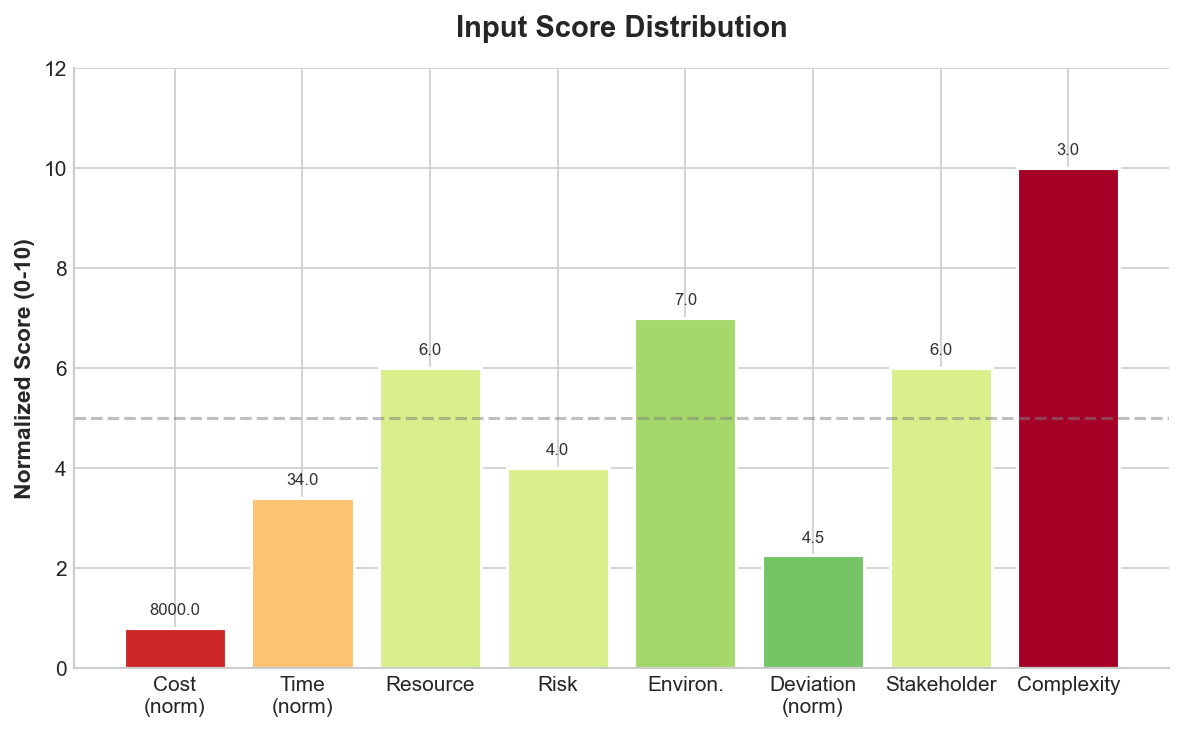
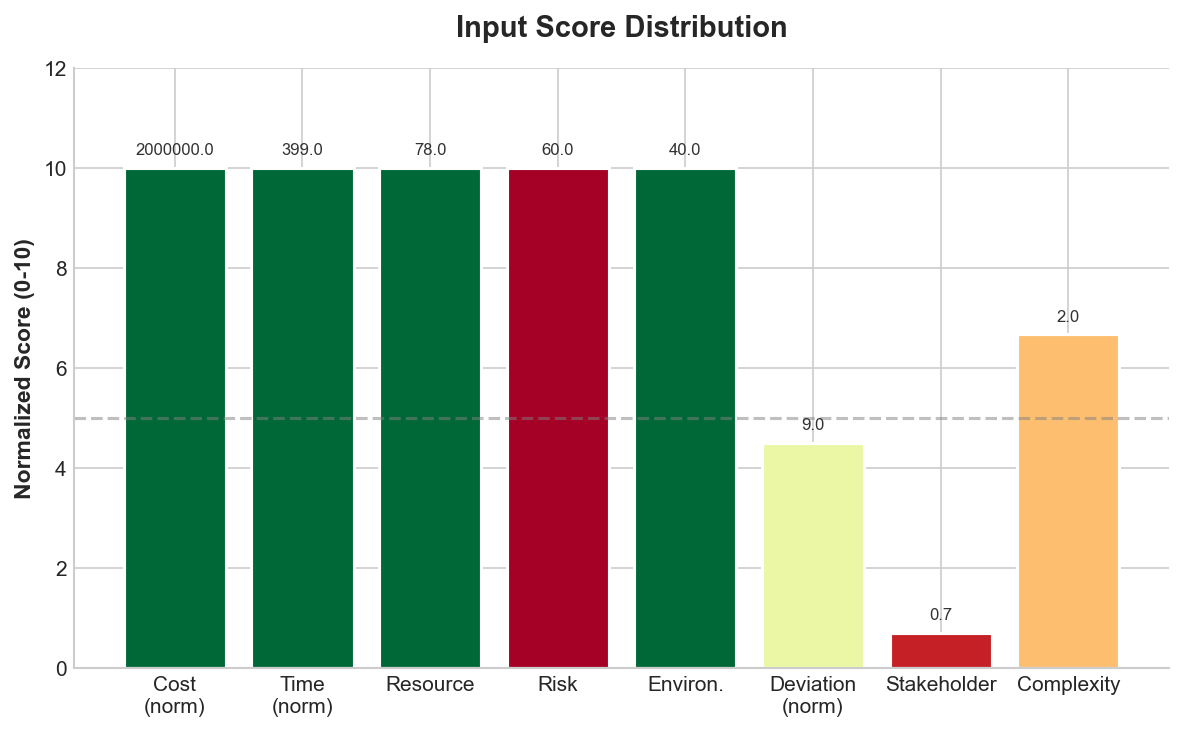
final product

diff --git a/templates/index.html b/templates/index.html
@@ -44,7 +44,6 @@
             font-size: 1.1rem;
         }
 
-        /* Navigation Tabs */
         .nav-tabs {
             display: flex;
             justify-content: center;
@@ -228,7 +227,6 @@
             box-shadow: 0 10px 30px rgba(17, 153, 142, 0.4);
         }
 
-        /* Feasibility Results */
         .results-section {}
 
         .result-card {
@@ -373,7 +371,6 @@
             border-radius: 10px;
         }
 
-        /* Single Prediction Result Card */
         .single-result-card {
             background: white;
             border-radius: 20px;
@@ -460,7 +457,6 @@
             font-size: 0.95rem;
         }
 
-        /* Animations */
         @keyframes fadeInUp {
             from {
                 opacity: 0;
@@ -498,7 +494,6 @@
             <p>AI-powered analysis to determine your project's success probability</p>
         </header>
 
-        <!-- Navigation Tabs -->
         <div class="nav-tabs">
             <button class="nav-tab {{ 'active' if active_tab != 'cost' and active_tab != 'time' else '' }}"
                 onclick="switchTab('feasibility')" id="tab-feasibility">
@@ -514,7 +509,6 @@
             </button>
         </div>
 
-        <!-- ====================== TAB 1: FEASIBILITY ====================== -->
         <div class="tab-content {{ 'active' if active_tab != 'cost' and active_tab != 'time' else '' }}"
             id="content-feasibility">
             <div class="main-content">
@@ -601,7 +595,6 @@
                     </form>
                 </div>
 
-                <!-- Feasibility Results -->
                 <div class="results-section">
                     {% if result %}
                     <div class="result-card animate delay-1">
@@ -676,7 +669,6 @@
             {% endif %}
         </div>
 
-        <!-- ====================== TAB 2: COST ESTIMATOR ====================== -->
         <div class="tab-content {{ 'active' if active_tab == 'cost' else '' }}" id="content-cost">
             <div class="main-content">
                 <div class="card animate">
@@ -775,7 +767,6 @@
             </div>
         </div>
 
-        <!-- ====================== TAB 3: TIME ESTIMATOR ====================== -->
         <div class="tab-content {{ 'active' if active_tab == 'time' else '' }}" id="content-time">
             <div class="main-content">
                 <div class="card animate">

diff --git a/app/visualize.py b/app/visualize.py
@@ -1,10 +1,9 @@
 import matplotlib
-matplotlib.use('Agg')  # Use non-interactive backend to avoid threading issues
+matplotlib.use('Agg')
 import matplotlib.pyplot as plt
 import numpy as np
 from pathlib import Path
 
-# Set the style for all plots
 plt.style.use('seaborn-v0_8-whitegrid')
 
 BASE_DIR = Path(__file__).parent.parent
@@ -14,18 +13,15 @@ def generate_feature_importance(model, feature_names):
     """Generate a horizontal bar chart showing feature importance."""
     importance = model.feature_importances_
     
-    # Sort by importance
     sorted_idx = np.argsort(importance)
     sorted_features = [feature_names[i] for i in sorted_idx]
     sorted_importance = importance[sorted_idx]
     
-    # Create gradient colors
     colors = plt.cm.RdYlGn(np.linspace(0.2, 0.8, len(sorted_features)))
     
     fig, ax = plt.subplots(figsize=(8, 6))
     bars = ax.barh(sorted_features, sorted_importance, color=colors, edgecolor='white', linewidth=0.7)
     
-    # Add value labels on bars
     for bar, val in zip(bars, sorted_importance):
         ax.text(val + 0.01, bar.get_y() + bar.get_height()/2, 
                 f'{val:.3f}', va='center', fontsize=9, color='#333')
@@ -43,34 +39,26 @@ def generate_feature_importance(model, feature_names):
 
 def generate_radar_chart(input_data, feature_names):
     """Generate a radar chart showing the input values."""
-    # Normalize values for radar chart (assuming scores are 0-10 range)
     labels = ['Cost', 'Time', 'Resource', 'Risk', 'Environ.', 'Deviation', 'Stakeholder', 'Complexity']
     
-    # Normalize the input data
-    max_vals = [1000000, 365, 10, 10, 10, 50, 10, 3]  # Approximate max values
+    max_vals = [1000000, 365, 10, 10, 10, 50, 10, 3]
     normalized = [min(v / m, 1) for v, m in zip(input_data, max_vals)]
     
-    # Number of variables
     num_vars = len(labels)
     
-    # Compute angle for each axis
     angles = np.linspace(0, 2 * np.pi, num_vars, endpoint=False).tolist()
     
-    # Complete the loop
     normalized += normalized[:1]
     angles += angles[:1]
     
     fig, ax = plt.subplots(figsize=(7, 7), subplot_kw=dict(polar=True))
     
-    # Draw the outline
     ax.plot(angles, normalized, 'o-', linewidth=2, color='#667eea')
     ax.fill(angles, normalized, alpha=0.25, color='#667eea')
     
-    # Set the labels
     ax.set_xticks(angles[:-1])
     ax.set_xticklabels(labels, size=10, fontweight='bold')
     
-    # Set y-axis limits
     ax.set_ylim(0, 1)
     ax.set_yticks([0.25, 0.5, 0.75, 1.0])
     ax.set_yticklabels(['25%', '50%', '75%', '100%'], size=8, color='gray')
@@ -87,10 +75,8 @@ def generate_gauge_chart(risk_score, result):
     """Generate a gauge chart showing overall risk/feasibility level."""
     fig, ax = plt.subplots(figsize=(7, 4))
     
-    # Create gauge background
     theta = np.linspace(0, np.pi, 100)
     
-    # Draw background arcs (red, yellow, green sections)
     colors_sections = ['#eb3349', '#f5af19', '#11998e']
     for i, color in enumerate(colors_sections):
         start = i * np.pi / 3
@@ -100,23 +86,18 @@ def generate_gauge_chart(risk_score, result):
             ax.fill_between([theta_section[j], theta_section[j+1]], [0.6, 0.6], [1, 1], 
                           color=color, alpha=0.7 + 0.1 * (j % 2))
     
-    # Normalize risk score to 0-1 range
     normalized_score = min(max(risk_score / 10, 0), 1)
     
-    # Draw needle
     needle_angle = np.pi * (1 - normalized_score)
     ax.annotate('', xy=(needle_angle, 0.9), xytext=(np.pi/2, 0),
                 arrowprops=dict(arrowstyle='->', color='#333', lw=3))
     
-    # Add center circle
     circle = plt.Circle((np.pi/2, 0), 0.08, color='#333', transform=ax.transData)
     
-    # Labels
     ax.text(0, 0.45, 'High\nRisk', ha='center', va='center', fontsize=10, color='#eb3349', fontweight='bold')
     ax.text(np.pi/2, 0.45, 'Medium', ha='center', va='center', fontsize=10, color='#f5af19', fontweight='bold')
     ax.text(np.pi, 0.45, 'Low\nRisk', ha='center', va='center', fontsize=10, color='#11998e', fontweight='bold')
     
-    # Result text
     result_colors = {'Feasible': '#11998e', 'Not Feasible': '#eb3349', 'Uncertain': '#f5af19'}
     ax.text(np.pi/2, -0.15, f'{result}', ha='center', va='center', 
             fontsize=16, fontweight='bold', color=result_colors.get(result, '#333'))
@@ -137,23 +118,20 @@ def generate_distribution_chart(input_data, feature_names):
     """Generate a bar chart showing the distribution of input scores."""
     labels = ['Cost\n(norm)', 'Time\n(norm)', 'Resource', 'Risk', 'Environ.', 'Deviation\n(norm)', 'Stakeholder', 'Complexity']
     
-    # Normalize some values for better visualization
     max_vals = [100000, 100, 10, 10, 10, 20, 10, 3]
     normalized = [min(v / m * 10, 10) for v, m in zip(input_data, max_vals)]
     
-    # Color based on value (low=green, high=red for risk-like metrics)
     colors = []
-    risk_indices = [3, 5, 7]  # Risk, Deviation, Complexity (higher is worse)
+    risk_indices = [3, 5, 7]
     for i, val in enumerate(normalized):
         if i in risk_indices:
-            colors.append(plt.cm.RdYlGn_r(val / 10))  # Reversed: high value = red
+            colors.append(plt.cm.RdYlGn_r(val / 10))
         else:
-            colors.append(plt.cm.RdYlGn(val / 10))  # Normal: high value = green
+            colors.append(plt.cm.RdYlGn(val / 10))
     
     fig, ax = plt.subplots(figsize=(8, 5))
     bars = ax.bar(labels, normalized, color=colors, edgecolor='white', linewidth=1.5)
     
-    # Add value labels
     for bar, val, orig in zip(bars, normalized, input_data):
         height = bar.get_height()
         ax.text(bar.get_x() + bar.get_width()/2, height + 0.2,
@@ -165,7 +143,6 @@ def generate_distribution_chart(input_data, feature_names):
     ax.spines['top'].set_visible(False)
     ax.spines['right'].set_visible(False)
     
-    # Add a reference line
     ax.axhline(y=5, color='gray', linestyle='--', alpha=0.5, label='Average')
     
     plt.tight_layout()
@@ -178,5 +155,5 @@ def generate_all_visualizations(model, feature_names, input_data, result):
     """Generate all visualization charts."""
     generate_feature_importance(model, feature_names)
     generate_radar_chart(input_data, feature_names)
-    generate_gauge_chart(input_data[3], result)  # Using Risk Assessment Score
+    generate_gauge_chart(input_data[3], result)
     generate_distribution_chart(input_data, feature_names)

diff --git a/app/main.py b/app/main.py
@@ -11,13 +11,11 @@ import joblib
 
 app = FastAPI()
 
-# Get the directory of the current file
 BASE_DIR = Path(__file__).parent.parent
 TEMPLATES_DIR = BASE_DIR / "templates"
 STATIC_DIR = BASE_DIR / "static"
 MODELS_DIR = BASE_DIR / "models"
 
-# Ensure static directory exists
 STATIC_DIR.mkdir(exist_ok=True)
 
 templates = Jinja2Templates(directory=str(TEMPLATES_DIR))
@@ -25,12 +23,10 @@ app.mount("/static", StaticFiles(directory=str(STATIC_DIR)), name="static")
 
 @app.get("/favicon.ico")
 def favicon():
-    return Response(status_code=204)  # No content - silently ignore favicon requests
+    return Response(status_code=204)
 
 model = joblib.load(str(MODELS_DIR / "feasibility_model2.pkl"))
 
-# Project types for one-hot encoding (drop_first=True drops 'Bridge' alphabetically)
-# When Project_Type is 'Bridge', all encoded values will be 0
 PROJECT_TYPES_ENCODED = ['Building', 'Power Plant', 'Road', 'Water Infra']
 
 FEATURES = [
@@ -65,7 +61,6 @@ def predict(
     Stakeholder_Priority_Score: float = Form(...),
     Scope_Complexity_Numeric: int = Form(...)
 ):
-    # One-hot encode the Project_Type (Bridge is the reference/dropped category)
     project_type_encoded = [1 if pt == Project_Type else 0 for pt in PROJECT_TYPES_ENCODED]
     
     input_data = [
@@ -103,10 +98,8 @@ def predict(
 
     result_label = label_map[result]
     
-    # Generate all visualizations
     generate_all_visualizations(model, FEATURES, input_data, result_label)
     
-    # Add timestamp to prevent caching
     cache_bust = int(time.time())
 
     return templates.TemplateResponse(
@@ -135,10 +128,8 @@ def predict_cost_route(
     Historical_Cost_Deviation_: float = Form(...),
     Stakeholder_Priority_Score: float = Form(...)
 ):
-    # One-hot encode the Project_Type (Bridge = all zeros)
     project_type_encoded = [1 if pt == Project_Type else 0 for pt in PROJECT_TYPES_ENCODED]
 
-    # Build input in EXACT training order (must match COST_TIME_FEATURE_NAMES)
     input_data = [
         Scope_Complexity_Numeric,
         Resource_Allocation_Score,
@@ -148,7 +139,6 @@ def predict_cost_route(
         Stakeholder_Priority_Score
     ] + project_type_encoded
 
-    # Get prediction
     cost_result = predict_cost(input_data)
 
     # Store input data for form repopulation
@@ -185,11 +175,8 @@ def predict_time_route(
     Historical_Cost_Deviation_: float = Form(...),
     Stakeholder_Priority_Score: float = Form(...)
 ):
-    # One-hot encode the Project_Type (Bridge = all zeros)
     project_type_encoded = [1 if pt == Project_Type else 0 for pt in PROJECT_TYPES_ENCODED]
 
-    # Build input in EXACT training order (must match TIME_FEATURE_NAMES)
-    # Time model used df.drop() — Scope_Complexity_Numeric comes AFTER the scores
     input_data = [
         Resource_Allocation_Score,
         Risk_Assessment_Score,
@@ -199,7 +186,6 @@ def predict_time_route(
         Scope_Complexity_Numeric
     ] + project_type_encoded
 
-    # Get prediction
     time_result = predict_time(input_data)
 
     # Store input data for form repopulation

diff --git a/app/model.py b/app/model.py
@@ -4,12 +4,10 @@ from pathlib import Path
 
 BASE_DIR = Path(__file__).parent.parent
 
-# Load all models
 feasibility_model = joblib.load(str(BASE_DIR / "models" / "feasibility_model2.pkl"))
 cost_model = joblib.load(str(BASE_DIR / "models" / "cost_model.pkl"))
 time_model = joblib.load(str(BASE_DIR / "models" / "time_model.pkl"))
 
-# Feature names for feasibility model (12 features)
 FEATURE_NAMES = [
     'Estimated_Cost_USD',
     'Time_Estimate_Days',
@@ -25,7 +23,6 @@ FEATURE_NAMES = [
     'Project_Type_Water Infra'
 ]
 
-# Feature names for cost model (10 features — exact training order from explicit column selection)
 COST_FEATURE_NAMES = [
     'Scope_Complexity_Numeric',
     'Resource_Allocation_Score',
@@ -39,7 +36,6 @@ COST_FEATURE_NAMES = [
     'Project_Type_Water Infra'
 ]
 
-# Feature names for time model (10 features — order from df.drop() which follows CSV column order)
 TIME_FEATURE_NAMES = [
     'Resource_Allocation_Score',
     'Risk_Assessment_Score',
@@ -54,7 +50,6 @@ TIME_FEATURE_NAMES = [
 ]
 
 def predict_feasibility(input_data):
-    # Convert to DataFrame with feature names to avoid sklearn warning
     df = pd.DataFrame([input_data], columns=FEATURE_NAMES)
     prediction = feasibility_model.predict(df)[0]
     return prediction
